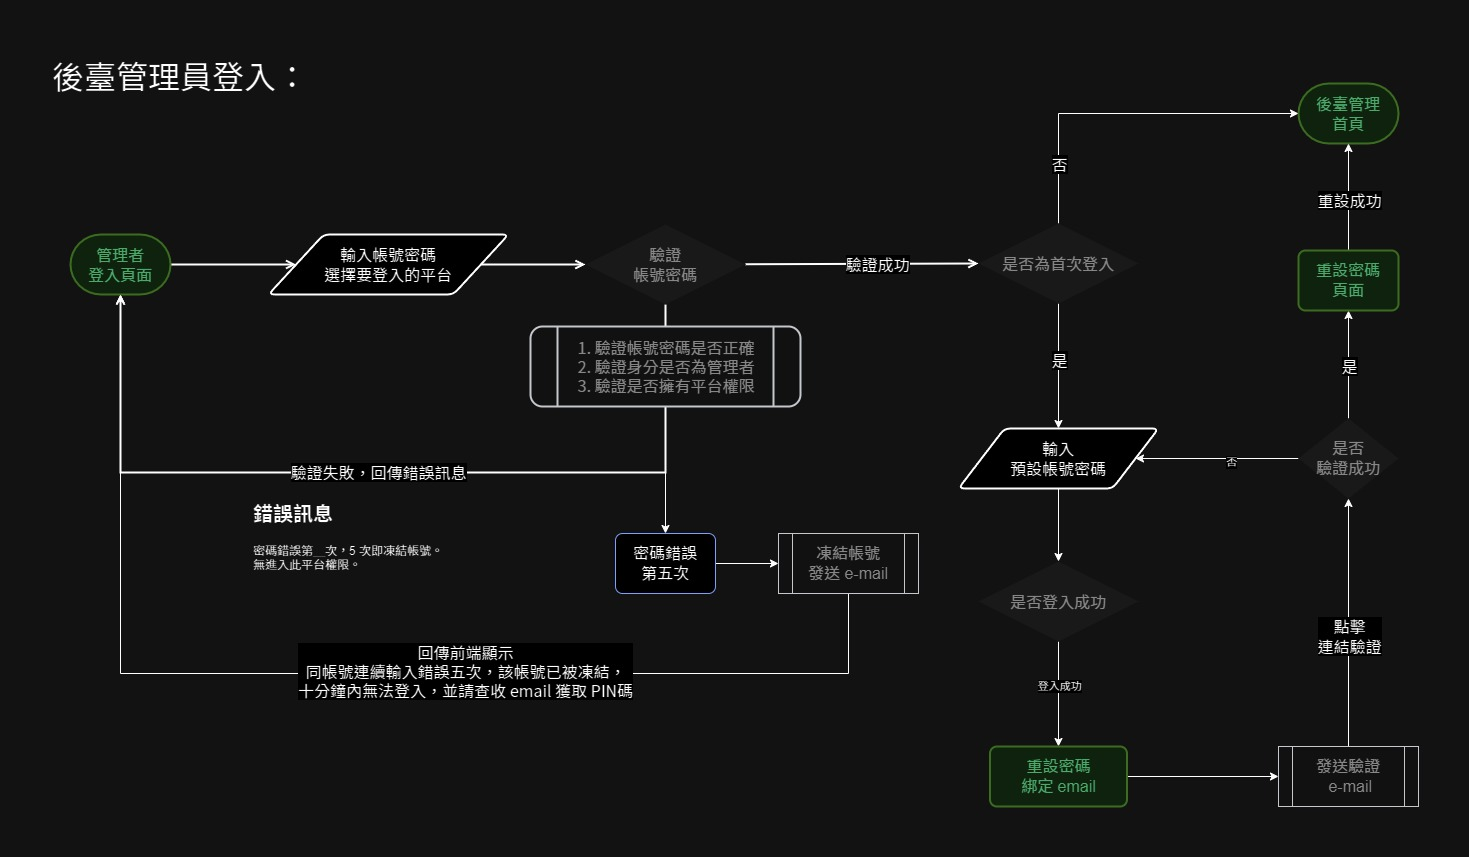
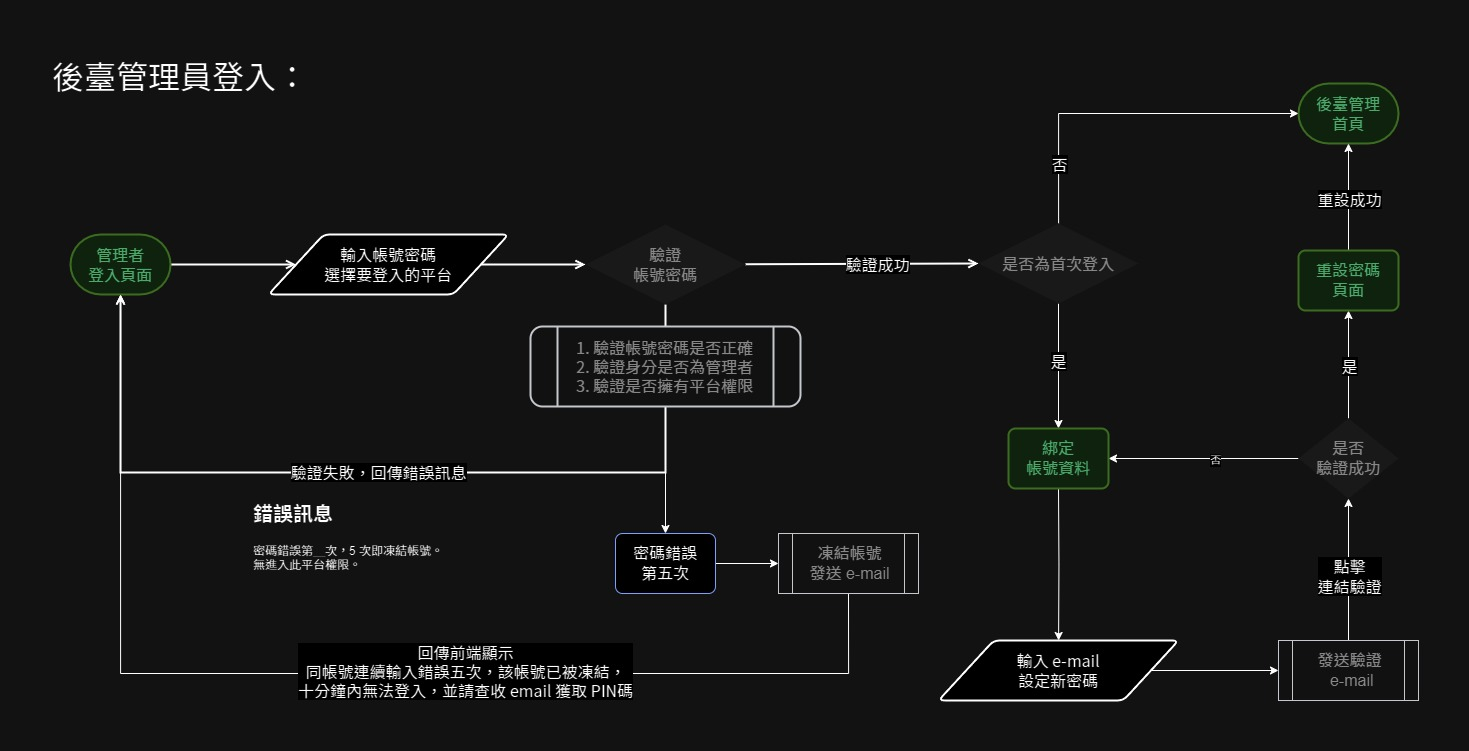
updated

diff --git a/Pages/Account/reset-password.md b/Pages/Account/reset-password.md
@@ -1,1 +1,21 @@
 # 重設密碼
+> 在[忘記密碼](Pages/Account/forget-password.md)頁面，輸入 e-mail 後若系統驗證有此筆 e-mail 資料便會寄送 e-mail，點選 e-mail 連結後跳轉至此頁面。
+
+## 重設密碼信件
+![重設密碼信件](asset/reset-password-email.png)
+
+| 項目 | 類型 | 操作 | 系統回應與處理邏輯 |
+| --- | --- | --- | --- |
+| 重設密碼連結 | Link | Click | 跳轉至[重設密碼](Pages/Account/reset-password.md) |
+
+<br>
+
+## 重設密碼頁面
+![畫面示意](asset/reset-password.png)
+
+| 項目 | 類型 | 操作 | 系統回應與處理邏輯 |
+| --- | --- | --- | --- |
+| 輸入新密碼 | Input | Type | - |
+| 再次輸入新密碼 | Input | Type | - |
+| 更新 | Button | Click | 返回[登入](Pages/Account/login.md)頁面 |
+

diff --git a/Pages/Account/verity-email.md b/Pages/Account/verity-email.md
@@ -1,1 +1,26 @@
-# e-mail 認證
+# 驗證 e-mail
+> 在[綁定帳號資料](Pages/Account/bind-account.md)頁面內送出後跳轉至此頁面
+
+![畫面示意](asset/vertify-email.png)
+
+<br>
+
+## 認證信件
+![信件示意](asset/vertify-email-content.png)
+
+### 頁面元件
+| 項目 | 類型 | 操作 | 系統回應與處理邏輯 |
+| --- | --- | --- | --- |
+| 驗證電郵 | Link | Click | 開啟[驗證成功](#驗證成功) |
+
+<br>
+
+## 驗證成功
+> 點擊信件內驗證連結後開啟此畫面
+
+![驗證成功](asset/vertify-email-seccessed.png)
+
+| 項目 | 類型 | 操作 | 系統回應與處理邏輯 |
+| --- | --- | --- | --- |
+| 按我回到系統 | Button | Click | 開啟[帳號資料](Pages/Account/account-info.md)|
+

diff --git a/Pages/Account/forget-password.md b/Pages/Account/forget-password.md
@@ -7,7 +7,7 @@
 | 項目 | 類型 | 操作 | 系統回應與處理邏輯 |
 | --- | --- | --- | --- |
 | 輸入 e-mail | Input | type | - |
-| 送出 | Button | Click | 判斷是否有相符合 e-mail：<br>相符：跳轉至[重設密碼](Pages/Account/reset-password.md)頁面<br>不相符：回報錯誤訊息 |
+| 送出 | Button | Click | 判斷是否有相符合 e-mail：<br>相符：Input下方顯示已送出重設密碼信件，在信箱點選連結開啟[重設密碼](Pages/Account/reset-password.md)頁面；不相符：回報錯誤訊息 |
 | 返回登入畫面 | Link | Click | 跳轉至[登入](Pages/Account/login.md) |
 
 <br>

diff --git a/Pages/Account/bind-account.md b/Pages/Account/bind-account.md
@@ -1,1 +1,20 @@
 # 綁定帳號資料
+> 首次登入須設定 e-mail 及更新密碼。
+
+![畫面示意](asset/bind-account.png)
+
+
+## 頁面元件
+
+| 項目 | 類型 | 操作 | 系統回應與處理邏輯 |
+| --- | --- | --- | --- |
+| 驗證郵件地址 | Input | Type | - |
+| 輸入新密碼 | Input | Type | - |
+| 再次輸入密碼 | Input | Type | - |
+| 送出 | Button | Click | 點選後進入 [驗證 e-mail](Pages/Account/verity-email.md) |
+| 登出 | Button | Click | 點選後返回 [登入](Pages/Account/login.md) |
+
+
+## 操作流程
+> 參考 [登入](Pages/Account/login.md) 流程。
+

diff --git a/_sidebar.md b/_sidebar.md
@@ -28,7 +28,7 @@
   * 頁面說明
     * [登入](Pages/Account/login.md)
     * [綁定帳號資料](Pages/Account/bind-account.md)
-    * [e-mail 認證](Pages/Account/verity-email.md)
+    * [驗證 e-mail](Pages/Account/verity-email.md)
     * [忘記密碼](Pages/Account/forget-password.md)
     * [重設密碼](Pages/Account/reset-password.md)
     * [輸入 PIN 碼](Pages/Account/enter-pin.md)

diff --git a/Pages/Account/account-info.md b/Pages/Account/account-info.md
@@ -3,6 +3,7 @@
 
 ![帳號資料](asset/account-info.png)
 
-
-
+## 頁面元件
+| 項目 | 類型 | 操作 | 系統回應與處理邏輯 |
+| --- | --- | --- | --- |
 

diff --git a/Pages/Account/login-history.md b/Pages/Account/login-history.md
@@ -1,1 +1,7 @@
 # 檢視登入紀錄
+
+
+![畫面示意](asset/login-history.png)
+
+
+

diff --git a/Pages/Account/change-password.md b/Pages/Account/change-password.md
@@ -3,3 +3,5 @@
 
 ![畫面示意](asset/change-password.png)
 
+
+

diff --git a/Pages/Account/enter-pin.md b/Pages/Account/enter-pin.md
@@ -1,0 +1,1 @@
+# 輸入 PIN 碼 (二階段)
